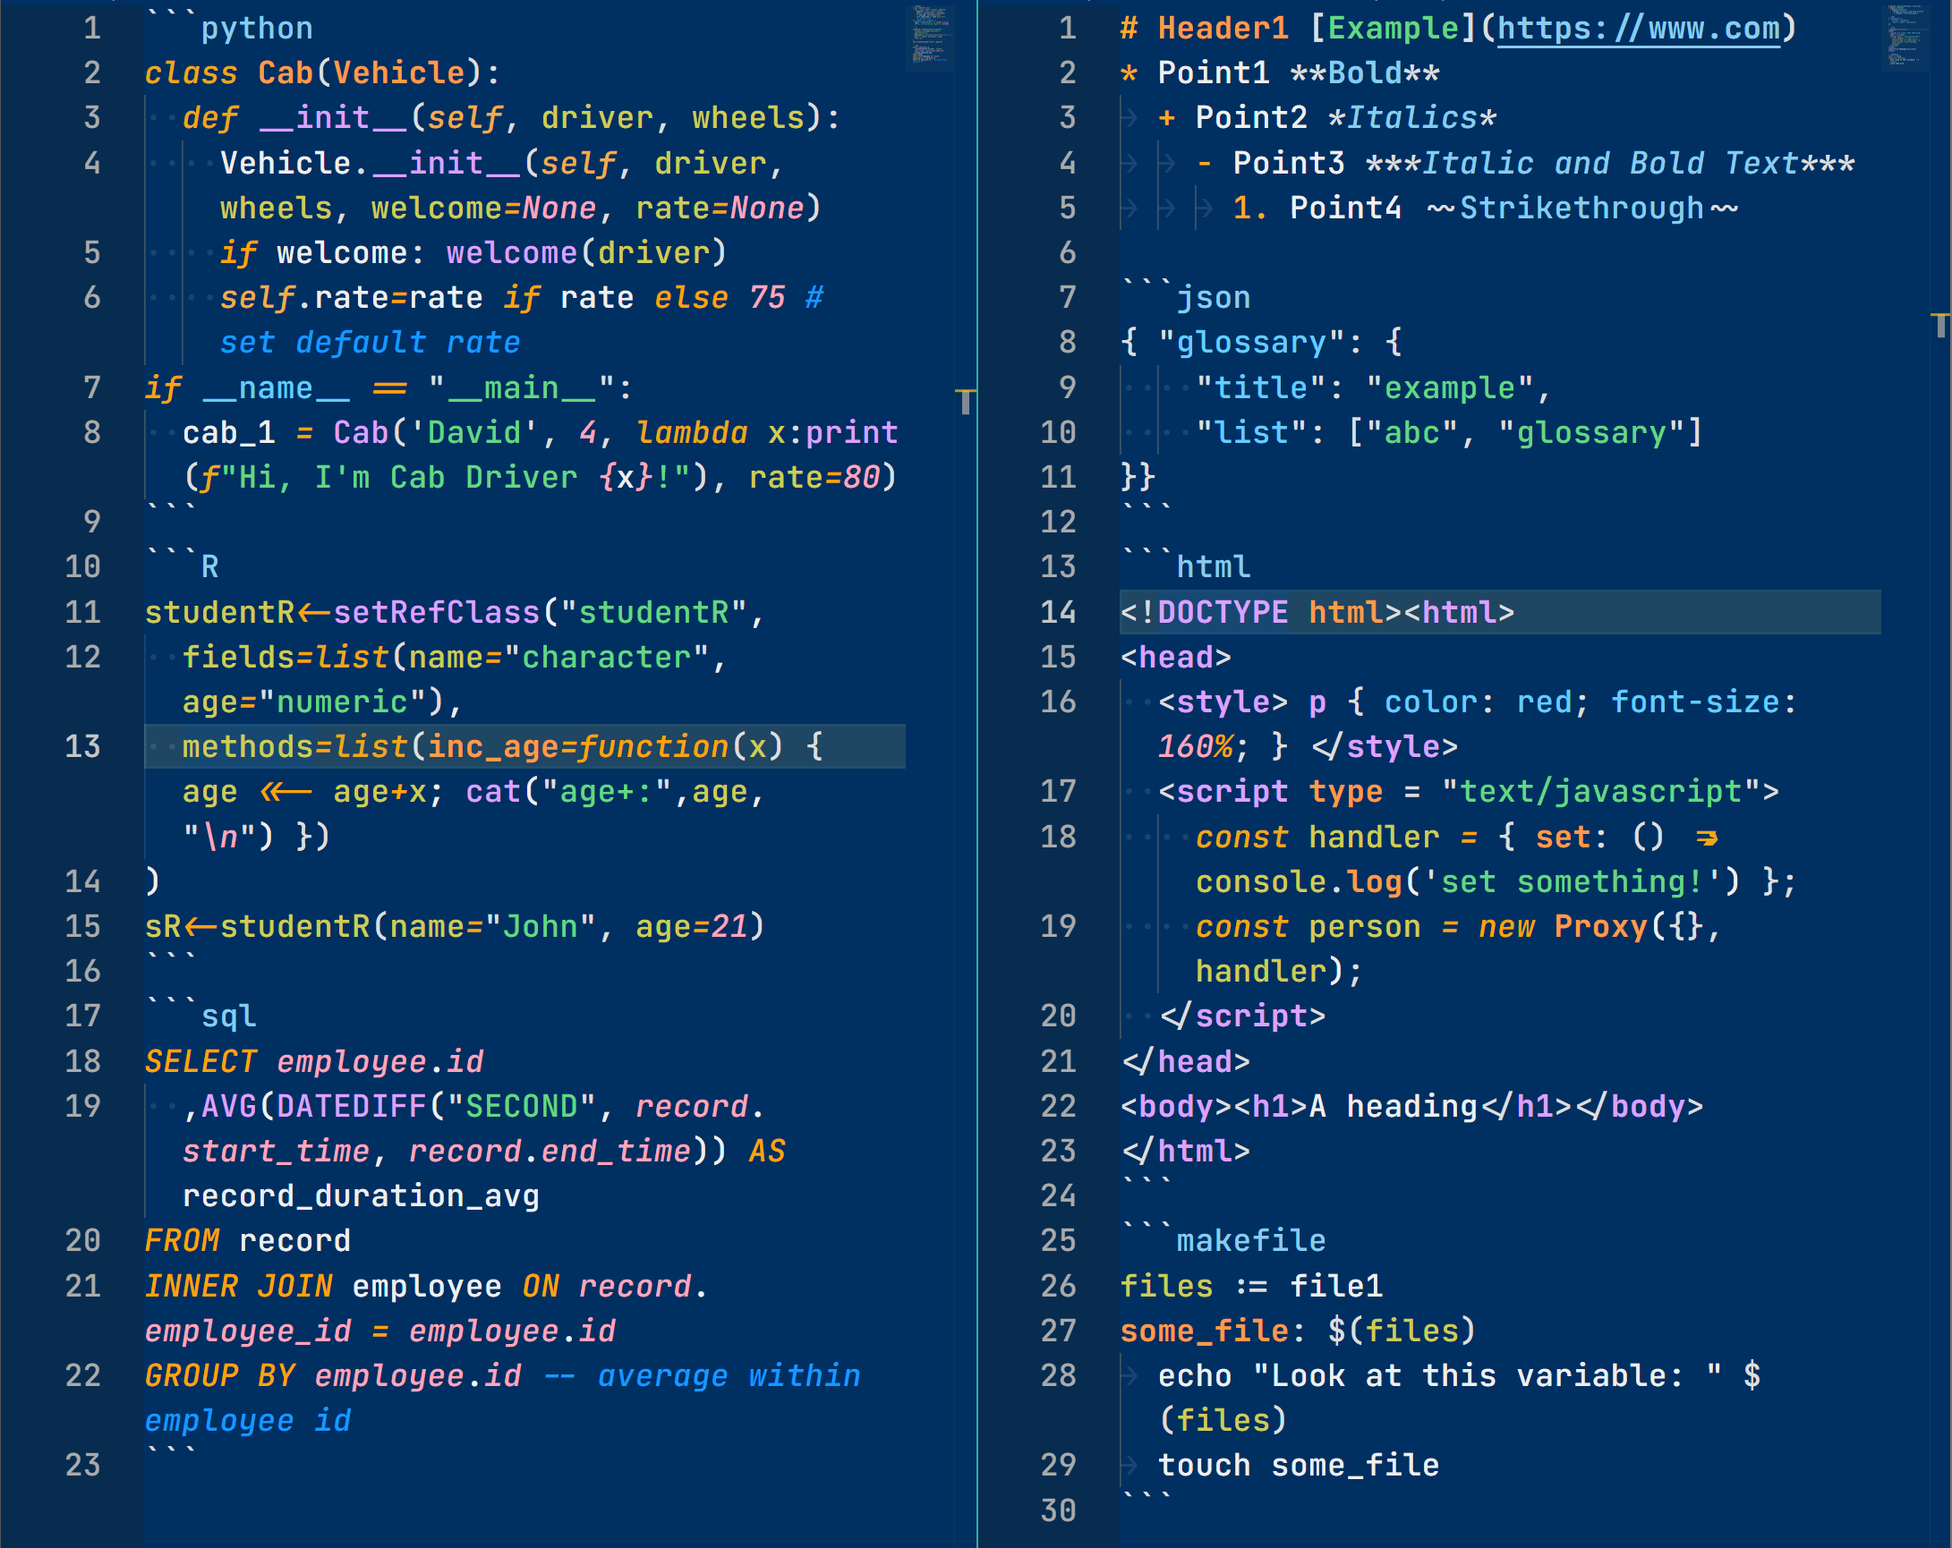
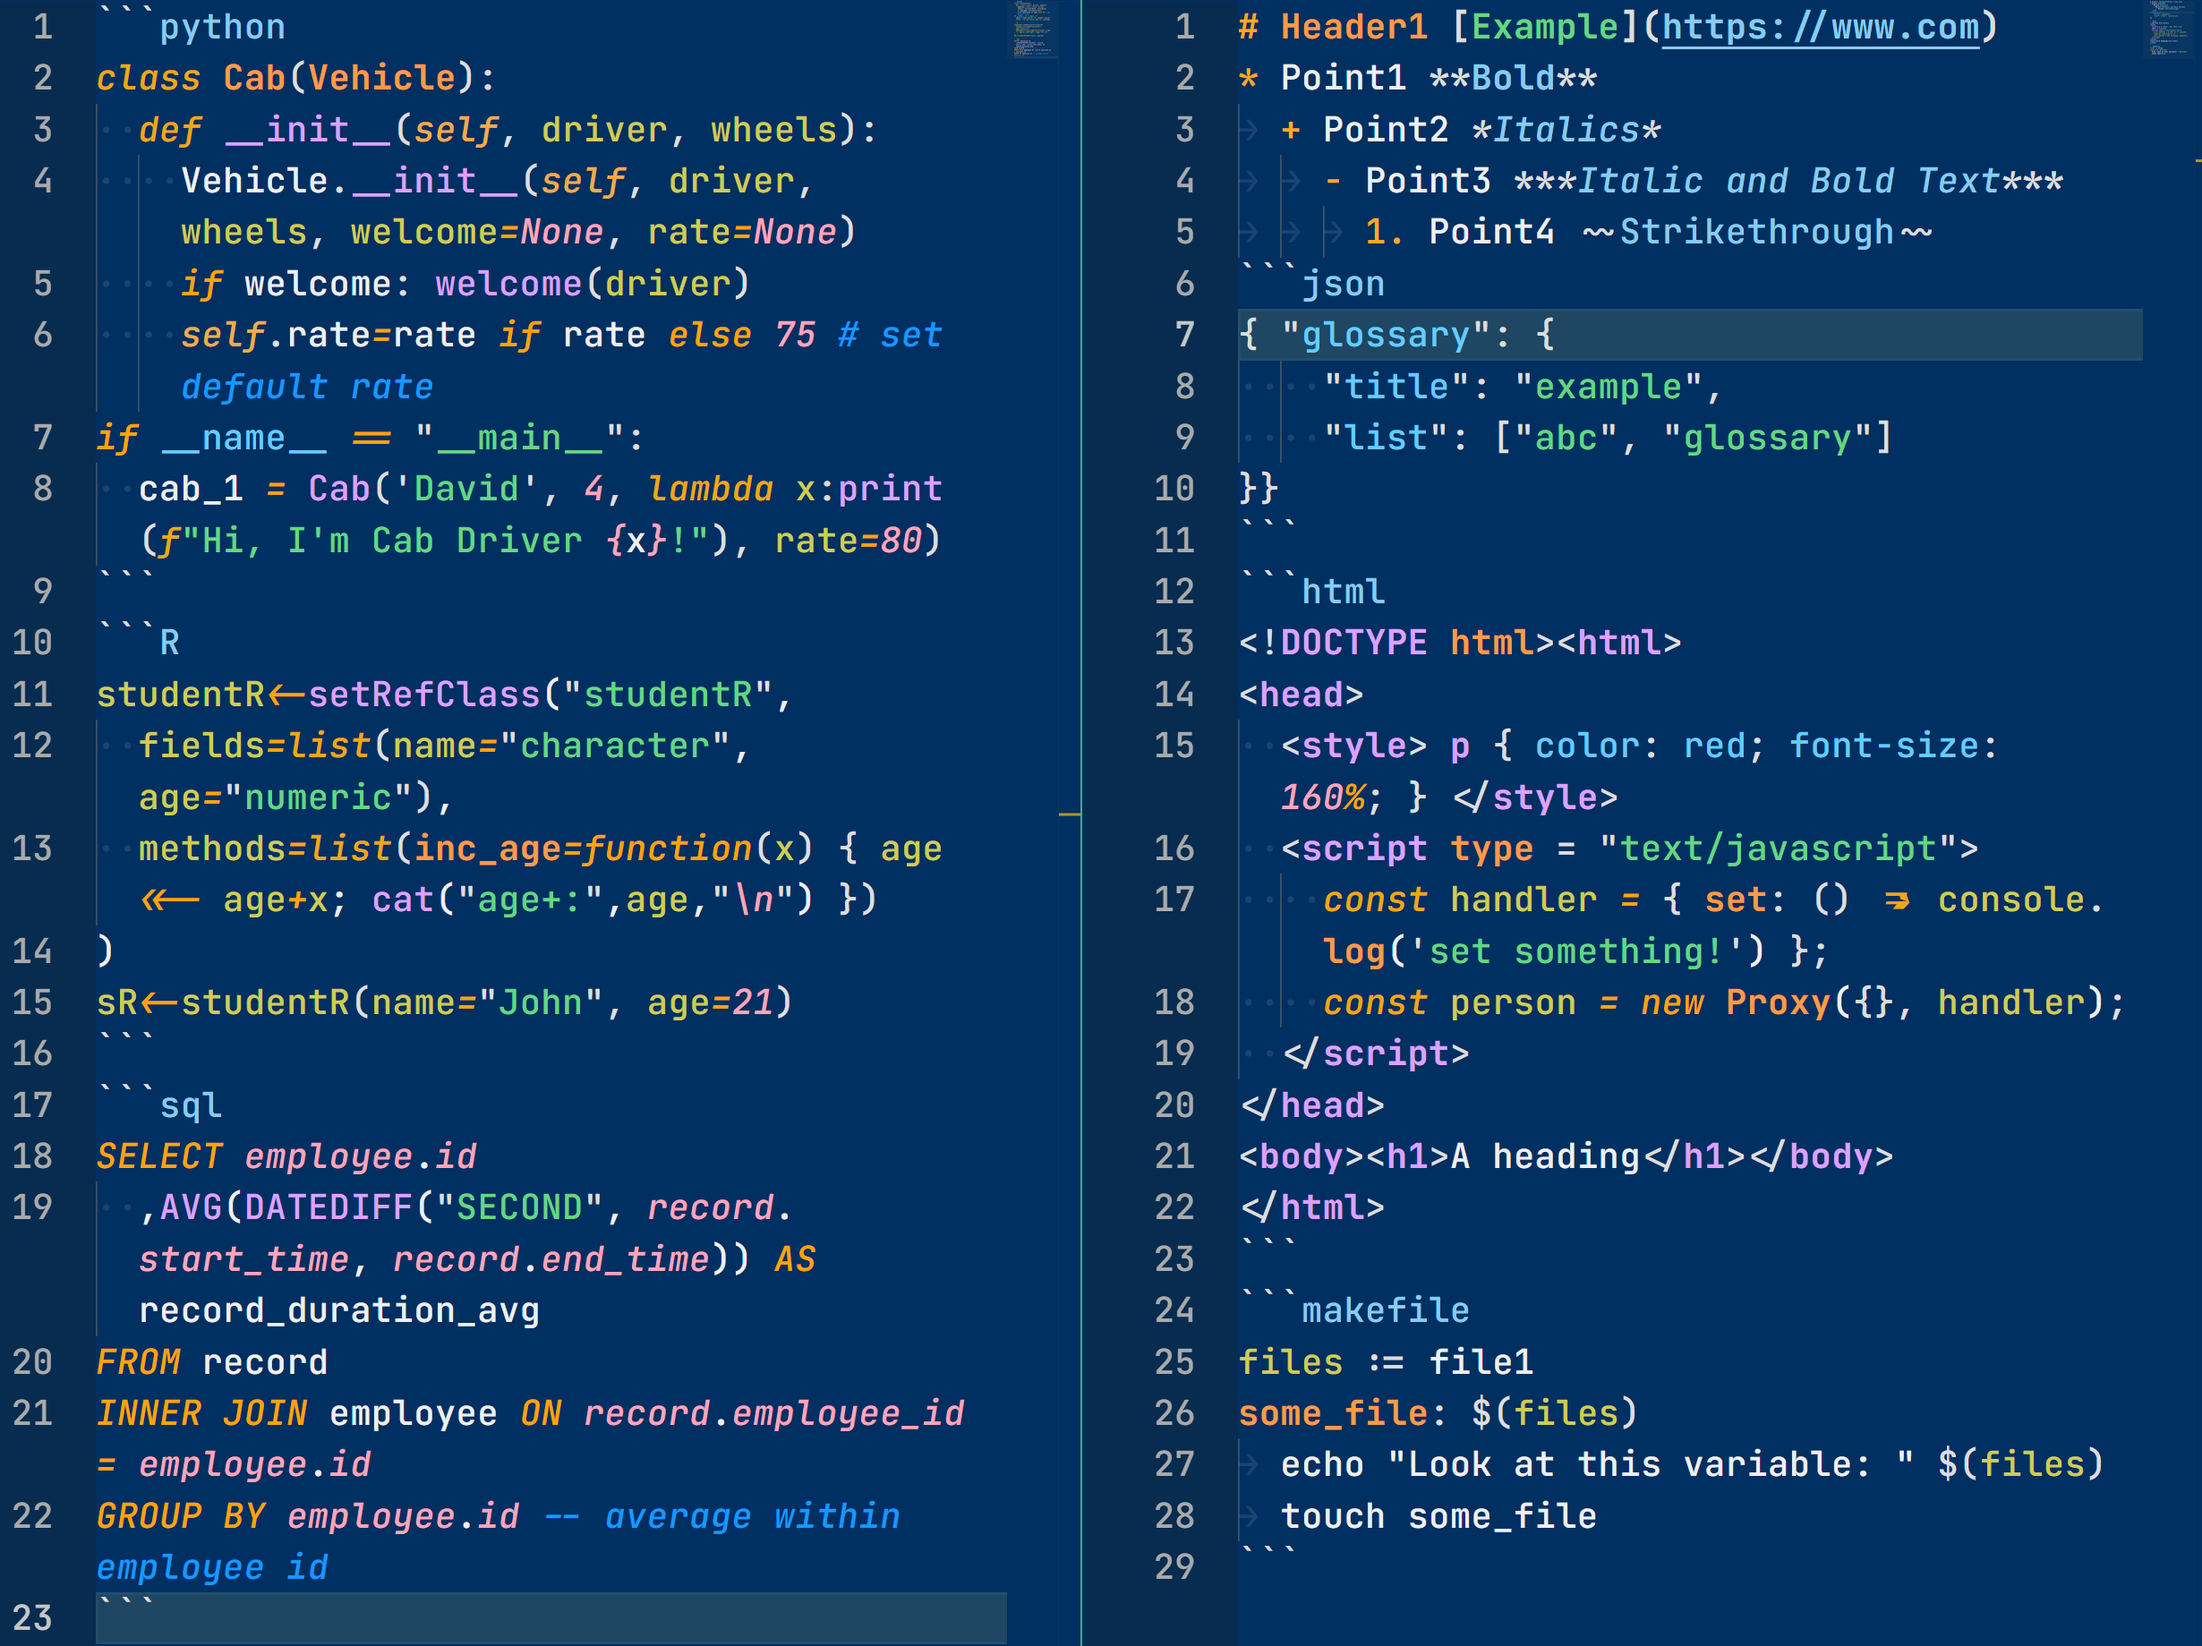
1.1.2 tweak Emerald theme.

diff --git a/README.md b/README.md
@@ -22,8 +22,9 @@
 - 2022-11-20 1.0.0
   - adjust further for markdown, json, sql.
 
-
 - 2022-11-22 1.1.0
   - complete recoloring of all 3 themes.
 - 2022-11-23 1.1.1
-  - small tweaks after recoloring, most meta & markup.
+  - small tweaks after recoloring, mostly meta & markup.
+- 2022-11-23 1.1.2
+  - small tweaks after recoloring, mostly emerald theme.

diff --git a/CHANGELOG.md b/CHANGELOG.md
@@ -27,5 +27,6 @@ Rui Emerald and Topaz are derived from the [Yi Dark & Light Themes](https://gith
   - complete recoloring of all 3 themes.
 - 2022-11-23 1.1.1
   - small tweaks after recoloring, most meta & markup.
-
+- 2022-11-23 1.1.2
+  - small tweaks after recoloring, mostly emerald theme.
 
